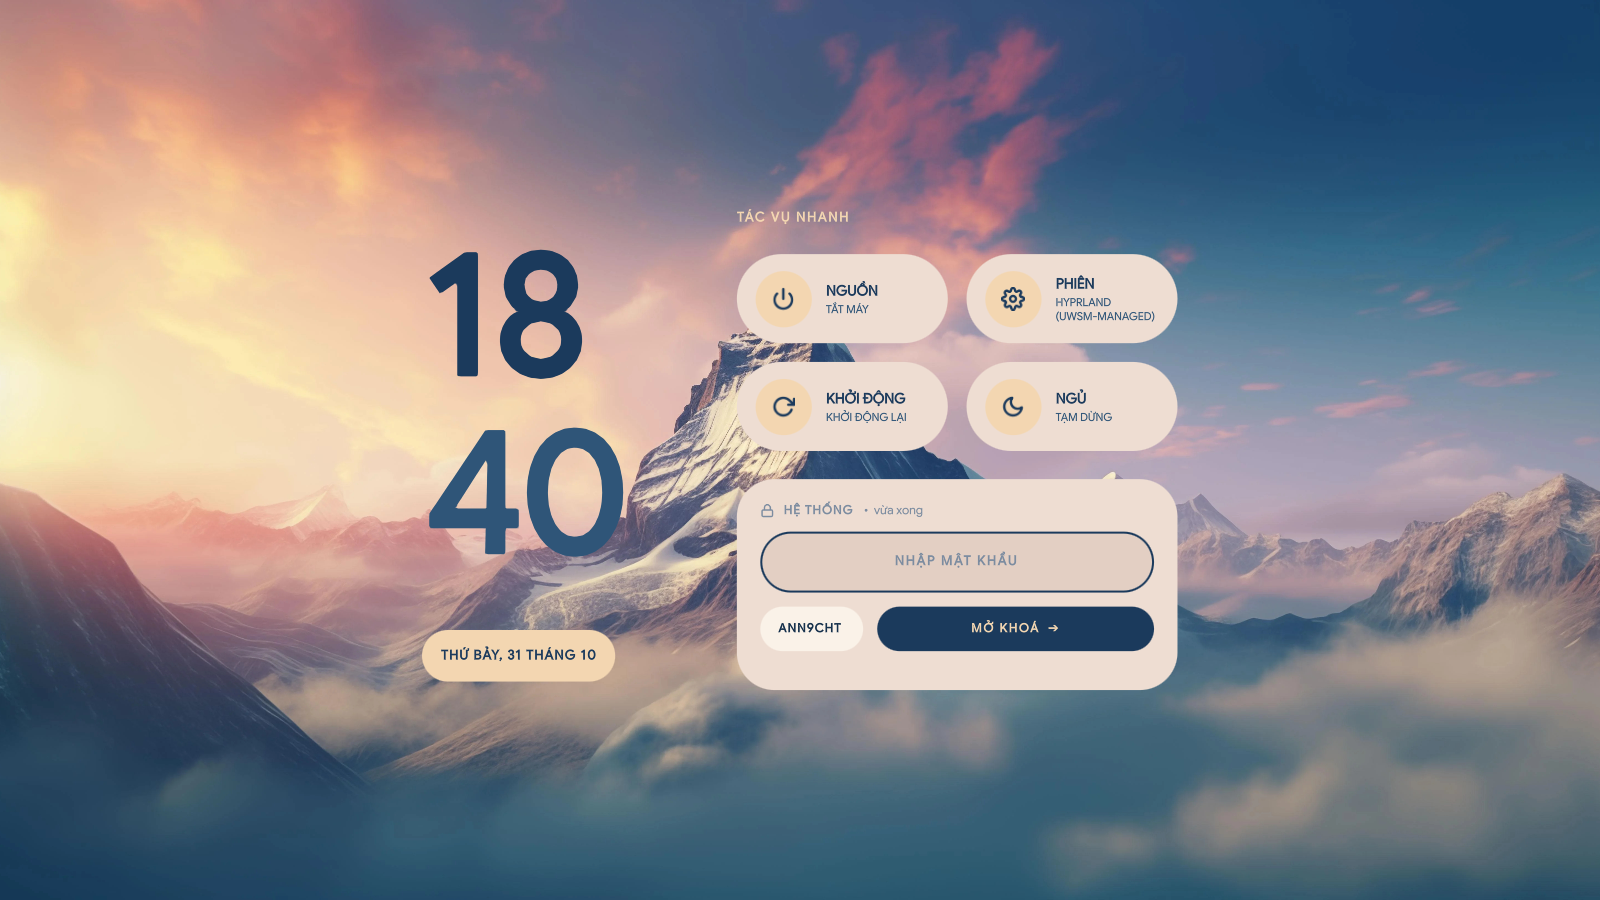
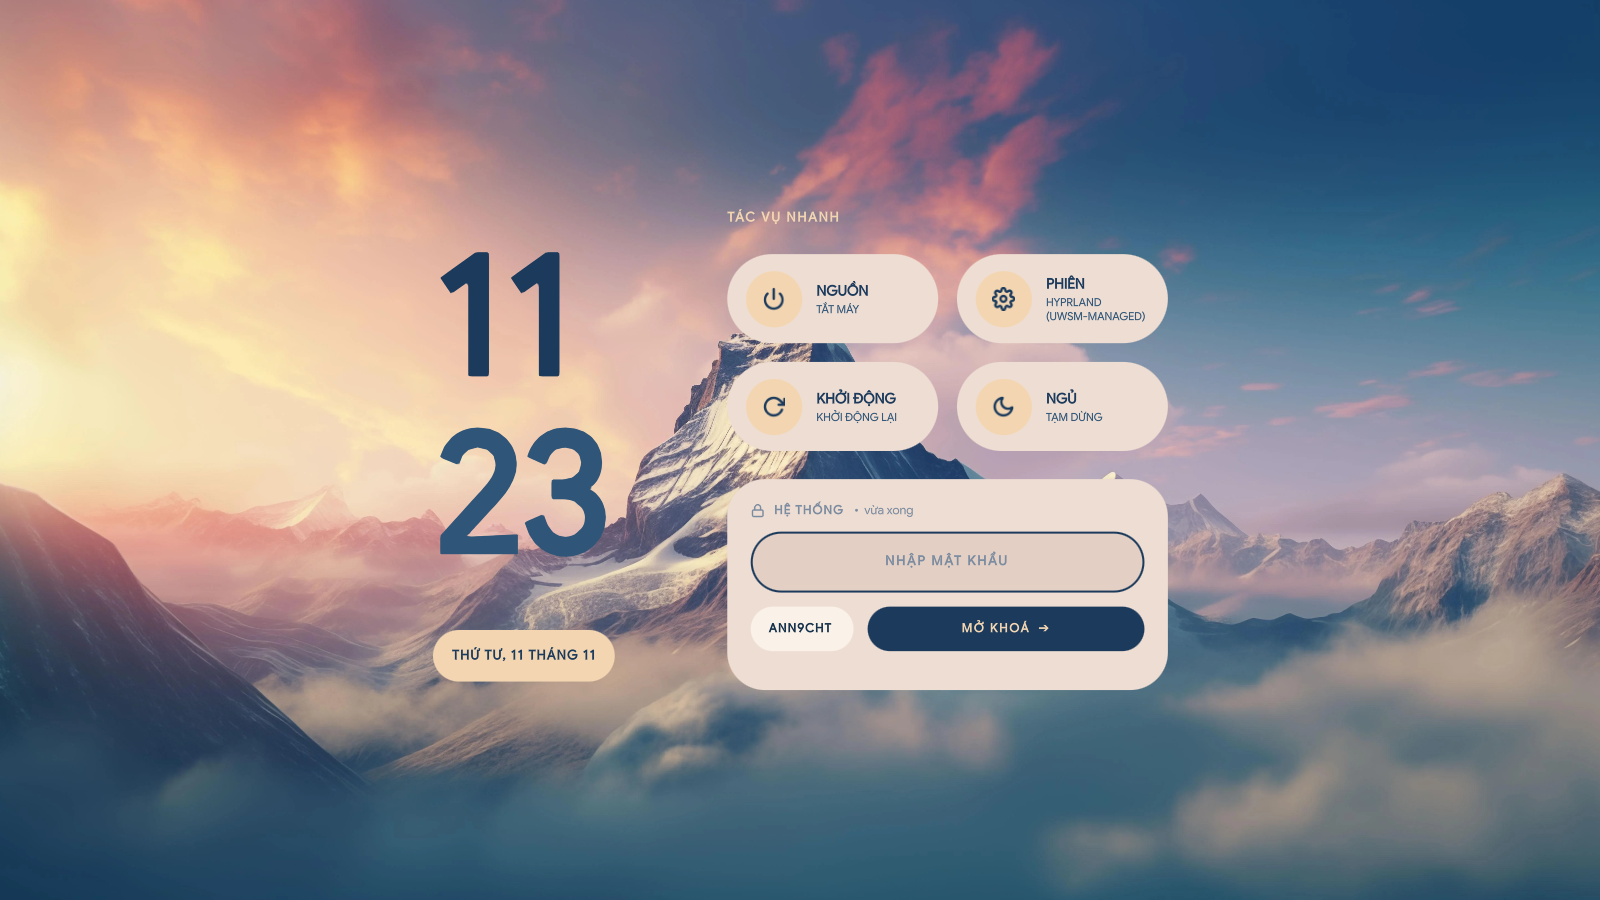
chore: upd README

diff --git a/README.md b/README.md
@@ -9,16 +9,16 @@
 <h1 align="center">ann9cht/nixos-config</h1>
 
 <p align="center">
-  Cấu hình NixOS tối thiểu để chạy Serpantinum trên Hyprland.
+  Cấu hình NixOS tối thiểu để chạy Serpantinum trên Hyprland, kèm lịch âm cho người Việt.
 </p>
 
 <table align="center">
   <tr>
     <td width="50%">
-      <img src="assets/preview/preview-1.webp" alt="Ảnh xem trước 1" width="100%">
+      <img src="assets/preview/preview-1.webp" alt="Chủ đề SDDM" width="100%">
     </td>
     <td width="50%">
-      <img src="assets/preview/preview-2.webp" alt="Ảnh xem trước 2" width="100%">
+      <img src="assets/preview/preview-2.webp" alt="Màn hình chính" width="100%">
     </td>
   </tr>
   <tr>
@@ -31,8 +31,54 @@
 
 Cấu hình sử dụng flake NixOS cùng Home Manager cho host `nixdesk`, giữ ở mức tối thiểu cần thiết để chạy shell [Serpantinum](https://github.com/ilyamiro/serpantinum) trên Hyprland.
 
-Serpantinum đã bât phần lớn dịch vụ hệ thống (mạng, Bluetooth, âm thanh, trình quản lý tệp Ski), nên cấu hình này chỉ khai báo những gì còn lại.
+Serpantinum đã bật phần lớn dịch vụ hệ thống (mạng, Bluetooth, âm thanh, trình quản lý tệp Ski), nên cấu hình này chỉ khai báo những gì còn lại.
+
+## Điểm khác biệt so với Serpantinum
+
+Ngoài cấu hình hệ thống, repo này áp thêm một số tùy biến lên Serpantinum bản gốc:
+
+- **Lịch âm (âm lịch Việt Nam)**: thêm vào popup lịch của shell, dựa trên thuật toán của Hồ Ngọc Đức. Xem preview ở bên dưới.
+- **Chủ đề SDDM**: tùy chỉnh từ theme `material-you` từ [qylock](https://github.com/Darkkal44/qylock), được Việt hóa và chỉnh lại màu nút, màu chữ.
+
+### Lịch âm
+
+Lịch âm chỉ khả dụng khi ngôn ngữ giao diện là **Tiếng Việt**, và hoạt động ở cả ba kiểu giao diện (mặc định, mờ đục/làm mờ, kính lỏng).
+
+- Ngày âm hiển thị nhỏ ngay bên dưới
+- Tháng nhuận được đánh dấu bằng chữ **N**
+- Rê chuột vào một ngày bất kỳ để xem can chi của tháng/năm, giờ hoàng đạo, tiết khí
+- Ngày lễ (Tết, Trung Thu...) được đánh dấu ngay trên ô ngày, kèm đếm ngược ngay trong bảng chi tiết
+- Có khối cài đặt riêng: bật/tắt chung, cùng các tùy chọn con (ngày âm, can chi, giờ hoàng đạo, tiết khí) và tùy chọn riêng cho ngày lễ
+
+<table align="center">
+  <tr>
+    <td width="50%">
+      <img src="assets/preview/preview-3.webp" alt="Lịch âm trong popup lịch" width="100%">
+    </td>
+    <td width="50%">
+      <img src="assets/preview/preview-4.webp" alt="Chú giải khi rê chuột" width="100%">
+    </td>
+  </tr>
+  <tr>
+    <td align="center"><sub>Lịch âm trong popup lịch</sub></td>
+    <td align="center"><sub>Chú giải khi rê chuột</sub></td>
+  </tr>
+  <tr>
+    <td width="50%">
+      <img src="assets/preview/preview-5.webp" alt="Ngày lễ có chấm đánh dấu" width="100%">
+    </td>
+    <td width="50%">
+      <img src="assets/preview/preview-6.webp" alt="Cài đặt lịch âm" width="100%">
+    </td>
+  </tr>
+  <tr>
+    <td align="center"><sub>Đánh dấu ngày lễ</sub></td>
+    <td align="center"><sub>Cài đặt lịch âm</sub></td>
+  </tr>
+</table>
 
 ## Cảm ơn
 
 - [Serpantinum](https://github.com/ilyamiro/serpantinum): shell mà cấu hình này xoay quanh.
+- [qylock](https://github.com/Darkkal44/qylock): chủ đề SDDM `material-you`.
+- Hồ Ngọc Đức: thuật toán tính âm lịch.
